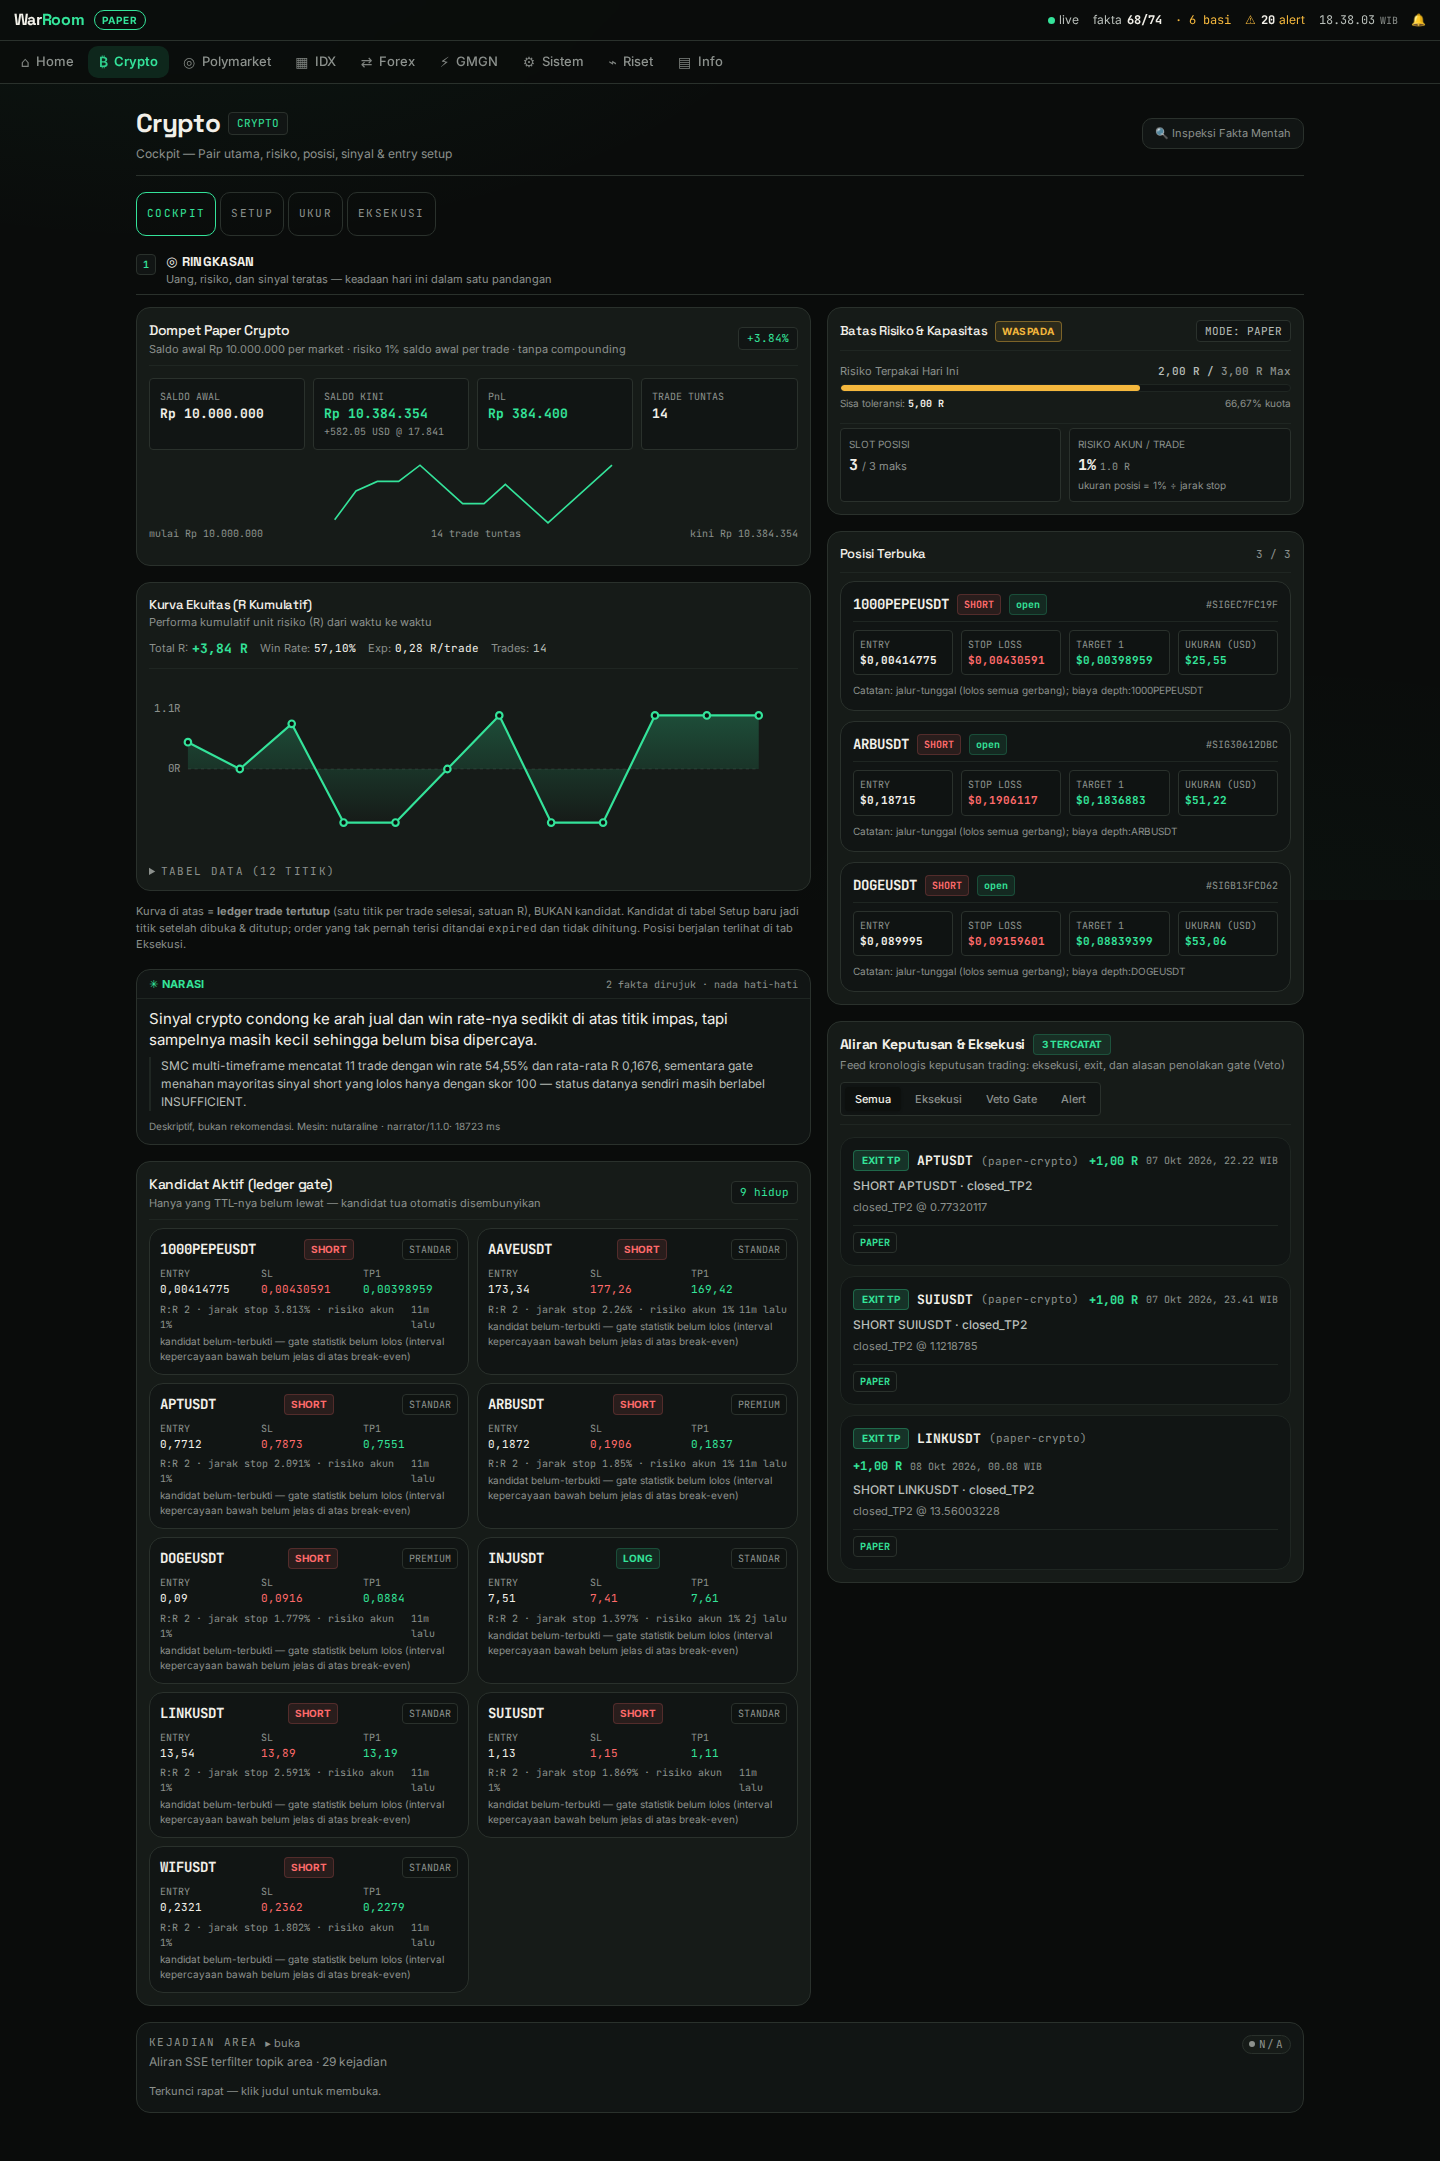
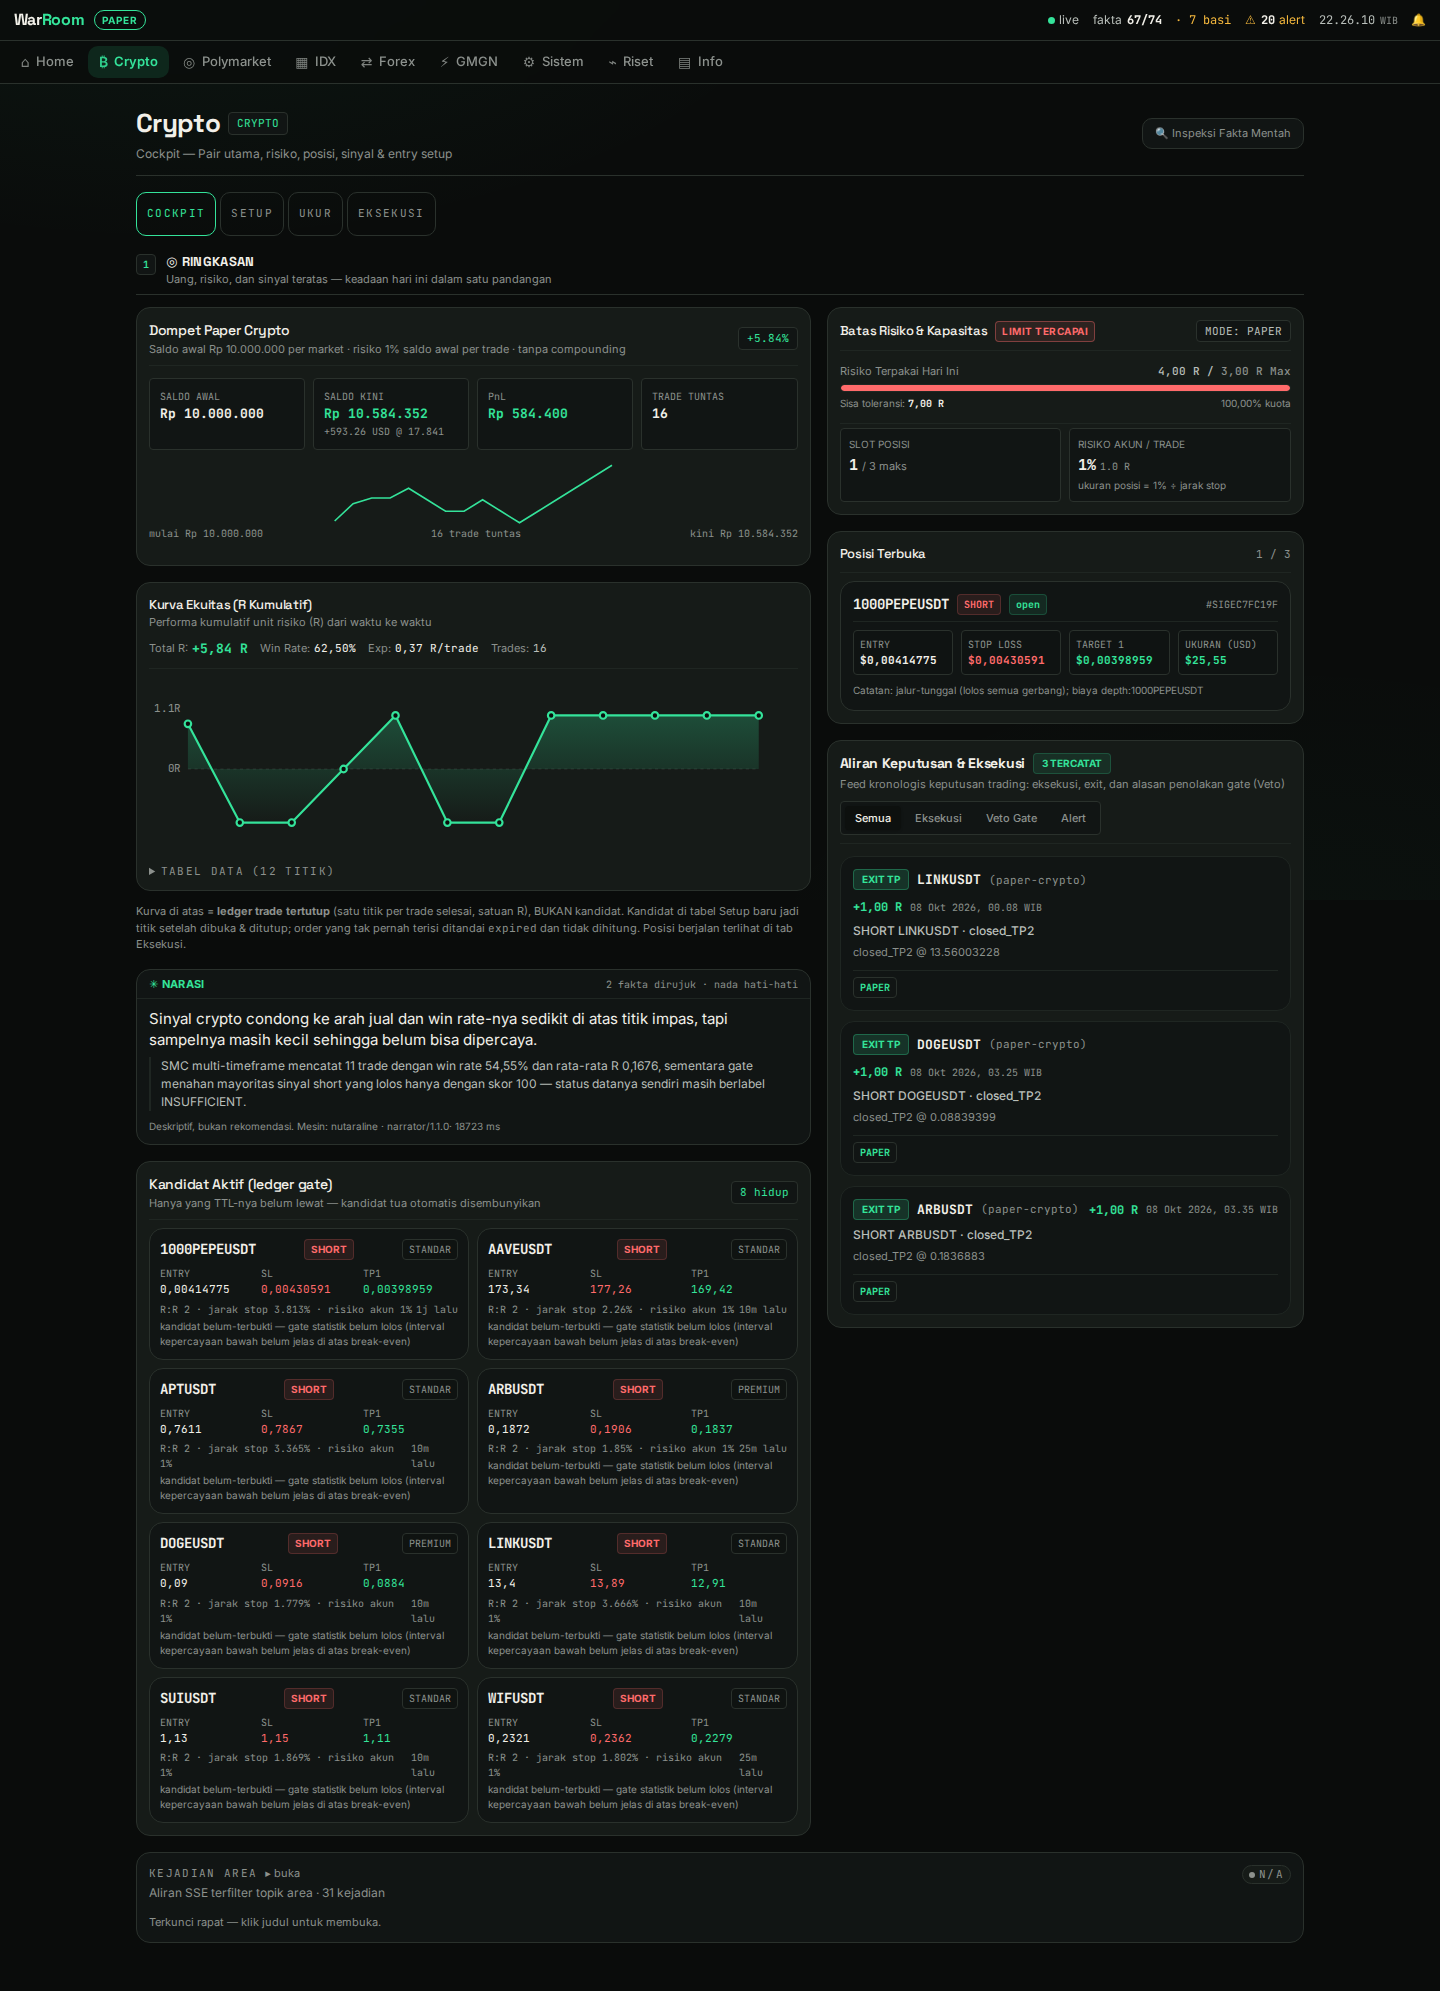
feat(ui): pembaruan halus tab Eksekusi (pasangan tab Ukur)
Pemilik: "bagian ukur dan eksekusi gw ga ngeh masih" — Ukur sudah dikerjakan lebih dulu,
ini pasangannya. Dua perubahan, memakai token yang ada (bukan Tailwind):

1) BARIS RINGKASAN satu baris di atas tab, seluruhnya diturunkan dari fakta yang ada:
   "Saat ini 1 posisi terbuka dari 3 slot · risiko terpakai hari ini 4,00 R dari batas
    3,00 R · 16 trade tuntas tercatat di ledger."
   Sumber: posisiJumlah (daftar posisi), risikoObj (fakta risiko), ledgerObj (ledger).
   Perhatikan angka 4,00 R / 3,00 R — batas risiko HARIAN sudah terlampaui, dan sekarang
   terlihat di baris pertama tanpa perlu membuka apa pun.

2) LABEL "FAKTA HARGA, BUKAN SINYAL" dipindah ke JUDUL kartu Overextended. Sebelumnya
   hanya ada di catatan kaki di bawah tabel — pembaca melihat tabelnya lebih dulu dan
   bisa mengira itu daftar sinyal entry. Sekarang menempel di judul, tidak mungkin lewat.

Tes: e2e/cek_eksekusi_halus.spec.ts (ringkasan + label di judul). pytest hijau,
lint-tokens bersih, suite E2E penuh 80 passed.

diff --git a/apps/web/src/lib/components/AreaView.svelte b/apps/web/src/lib/components/AreaView.svelte
@@ -851,6 +851,26 @@
 				<!-- Tab Overextended (dipindah dari area /overextended — datanya dari crypto) -->
 				{#if sub === 'overextended' || sub === 'eksekusi'}
 					<div class="space-y-4">
+						<!-- RINGKASAN SATU BARIS (pembaruan halus 7 Okt, pasangan dari tab Ukur).
+						     Semua angka DITURUNKAN dari fakta yang sudah ada — tidak ada yang dikarang:
+						     jumlah posisi dari daftar posisi, risiko terpakai dari fakta `risiko`,
+						     jumlah trade dari ledger. -->
+						{#if sub === 'eksekusi'}
+							{@const hr = risikoObj?.hari_ini_r}
+							{@const batas = risikoObj?.batas_rugi_r}
+							<div class="rounded-card border border-line bg-surface px-3 py-2.5">
+								<span class="text-13 text-text-2">
+									Saat ini <b class="angka">{posisiJumlah}</b> posisi terbuka dari
+									<b class="angka">{posisiMaks}</b> slot
+									{#if hr != null && batas != null}
+										· risiko terpakai hari ini <b class="angka">{angka(hr)} R</b> dari batas
+										<b class="angka">{angka(batas)} R</b>
+									{/if}
+									· <b class="angka">{ledgerObj?.trade ?? 0}</b> trade tuntas tercatat di ledger.
+								</span>
+							</div>
+						{/if}
+
 						<!-- POSISI TERBUKA di tab Eksekusi (temuan 7 Okt: tab ini menjanjikan
 						     "posisi terbuka" di judulnya, tapi tidak menampilkannya sama sekali —
 						     padahal ada 3 posisi berjalan). Detail penuh, bukan ringkas. -->
@@ -858,12 +878,20 @@
 							{@render panelPosisi(false)}
 						{/if}
 						<div class="permukaan-2 rounded-card border border-line p-3">
-							<div class="mb-3 flex items-center justify-between border-b border-line-soft pb-2">
+							<div class="mb-3 flex flex-wrap items-center justify-between gap-2 border-b border-line-soft pb-2">
 								<div>
-									<h3 class="text-14 font-medium text-text">Overextended &amp; Uji Edge</h3>
+									<h3 class="text-14 font-medium text-text">
+										Overextended
+										<!-- Label ini dulu hanya di catatan KAKI kartu; pembaca bisa melihat
+										     tabelnya lebih dulu dan mengira itu daftar sinyal. Sekarang duduk
+										     di judul — tidak mungkin terlewat (pembaruan halus 7 Okt). -->
+										<span class="ml-1 rounded border border-warn/50 bg-warn/10 px-1.5 py-0.5 text-10 font-bold text-warn align-middle">
+											FAKTA HARGA, BUKAN SINYAL
+										</span>
+									</h3>
 									<p class="text-11 text-text-3">
 										Seberapa jauh pump harga dari dasar, jarak dari puncak, perubahan OI, dan
-										funding rate.
+										funding rate — bahan uji, bukan ajakan masuk.
 									</p>
 								</div>
 								<span class="rounded bg-surface px-2 py-0.5 text-11 font-mono text-accent border border-line">

diff --git a/apps/web/e2e/cek_eksekusi_halus.spec.ts b/apps/web/e2e/cek_eksekusi_halus.spec.ts
@@ -1,0 +1,23 @@
+/**
+ * Penjaga pembaruan halus tab Eksekusi (7 Okt):
+ *  1. Baris ringkasan satu baris (posisi terbuka / risiko terpakai / trade tuntas).
+ *  2. Label "FAKTA HARGA, BUKAN SINYAL" menempel di JUDUL kartu Overextended —
+ *     bukan hanya catatan kaki yang mudah terlewat.
+ */
+import { expect, test } from '@playwright/test';
+
+test('tab Eksekusi: ringkasan + label bukan-sinyal di judul', async ({ page }) => {
+	await page.goto('/crypto?sub=eksekusi');
+
+	const ringkas = page.getByText(/posisi terbuka dari/);
+	await expect(ringkas).toBeVisible({ timeout: 25000 });
+	const t = await page.locator('body').innerText();
+	expect(t).toMatch(/risiko terpakai hari ini/i);
+	expect(t).toMatch(/trade tuntas tercatat di ledger/i);
+
+	// label harus berada di kartu Overextended (judul), bukan cuma di catatan kaki
+	// label muncul DUA kali (judul kartu + catatan kaki lama) — keduanya sah.
+	await expect(page.getByText('FAKTA HARGA, BUKAN SINYAL').first()).toBeVisible();
+	await expect(page.getByText('Posisi Terbuka').first()).toBeVisible();
+	console.log('--- RINGKASAN EKSEKUSI ---\n' + t.slice(t.indexOf('posisi terbuka dari') - 40, t.indexOf('posisi terbuka dari') + 220));
+});
